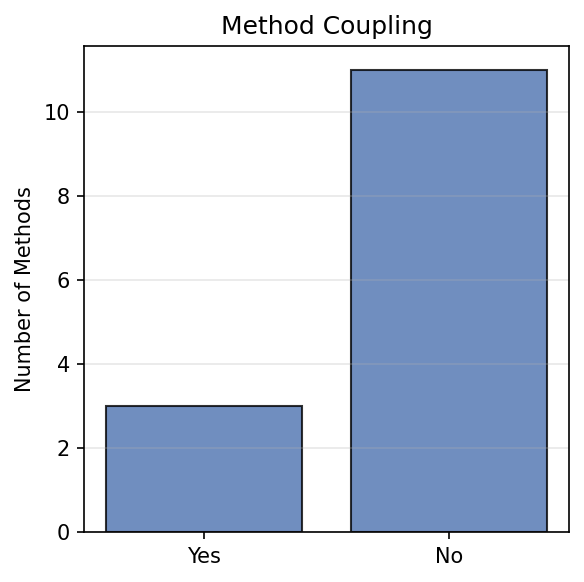
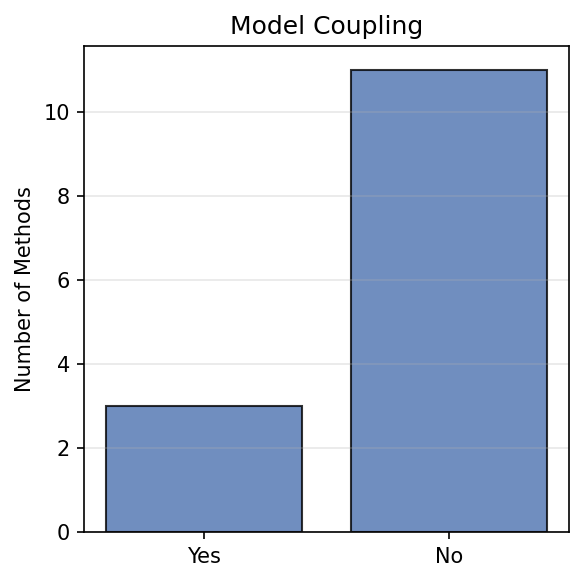
maint: adapt plots to naming convention

Changed region(s): [[0.3699, 0.0309, 0.7397, 0.0928]]

diff --git a/plotting_code/methods/method_coupling_v1.py b/plotting_code/methods/method_coupling_v1.py
@@ -2,7 +2,7 @@ from pathlib import Path
 import matplotlib.pyplot as plt
 
 # Plot settings
-PLOT_NAME = "method_coupling_v1.svg"
+PLOT_NAME = "method_coupling_v1.png"
 PLOT_TITLE = "Model Coupling"
 
 
